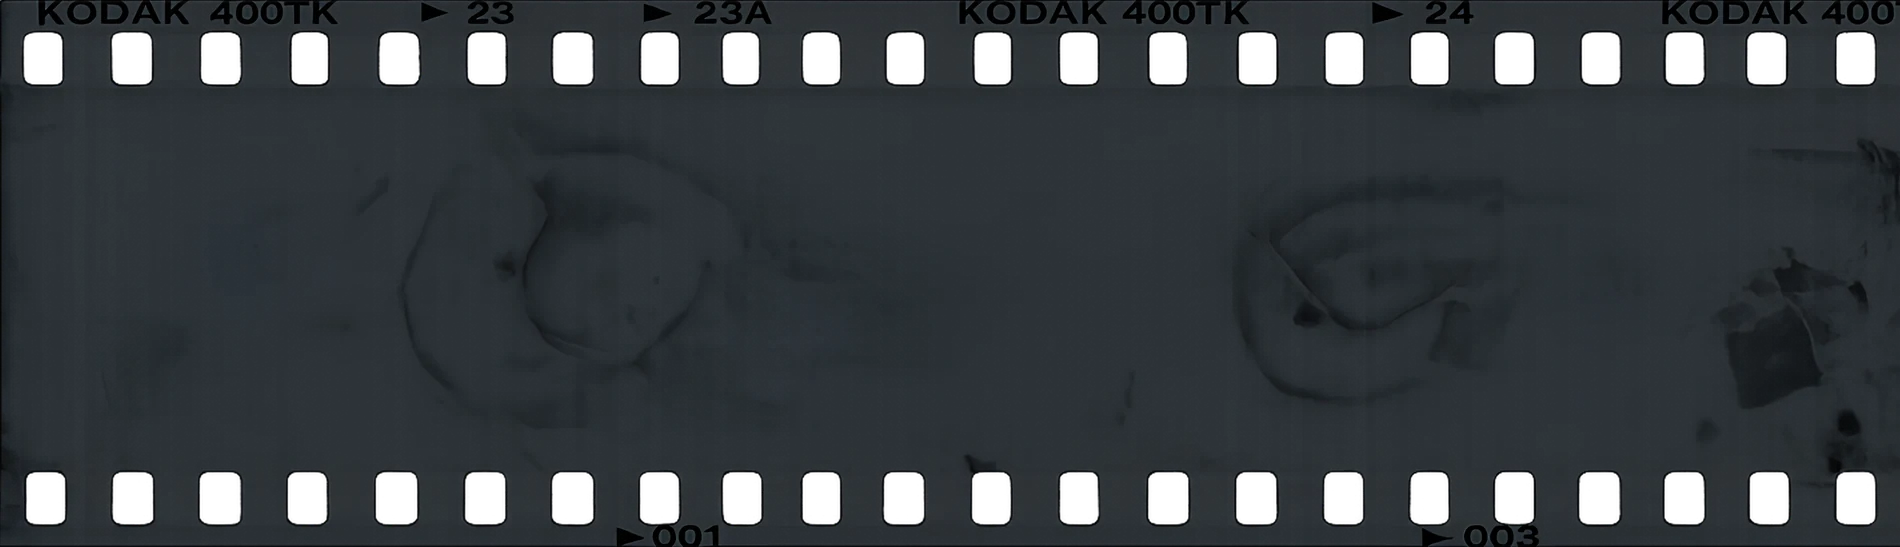
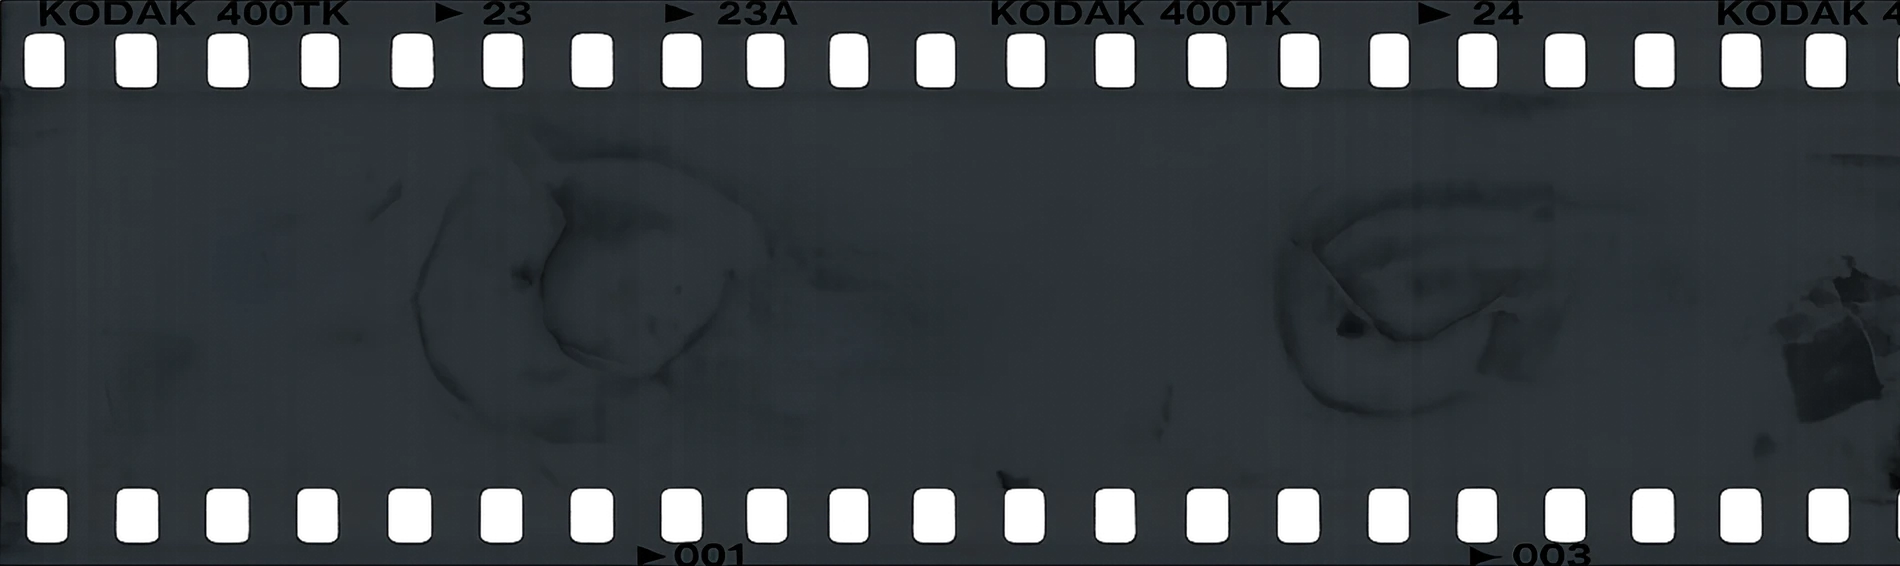
Re-cut the film tile on a whole pitch; pin and invert the language pill
The film "loop isn't perfect" was the tile, not the tween. Measured on
both perforation rows: holes sit 127.9px apart inside the tile but only
69.5px across the seam, so every repeat crowded two sprockets together
— a rhythm break once per period. The tween was always exact (pitch ==
group width to the pixel, 34px/s, no jumps).

resources/recut_film.py re-cuts from the right only, keeping x0 = 0 so
the baked frame windows stay aligned with the DOM frames. It SEARCHES
for the width rather than deriving it: my hand arithmetic assumed the
last gaps matched the mean, and they are 95.5px, so the computed width
still left the seam 30% tight. 5697 -> 5512px, seam now within 9.7% of
the tile's own mean gap, which is inside the art's natural jitter
(119-140px). Frame-slot constant retuned 0.8679 -> 0.839732.

Phone and WhatsApp are now different numbers: 052-874-5090 displayed
for the phone across all three pages, +972594097725 for WhatsApp in the
chat widget. Anything reusing phoneLabel for the WhatsApp row is now a
bug, so the widget has its own whatsappLabel.

The language pill is fixed rather than absolute, so it rides down the
page with the burger instead of scrolling away with the masthead, and
it takes the same .on-dark inversion. Sampled separately from the
burger: they sit at opposite corners and are regularly over different
sections at once — verified at 30% scroll, where the pill is over ink
and the burger is not.

diff --git a/prototype/style.css b/prototype/style.css
@@ -285,14 +285,37 @@ html[lang="en"] .ls-opt[data-l="en"] { color: var(--cream); }
 
 /* masthead copy is pinned to the corner opposite the burger. this one is
    physically left in both directions — the burger is physically right, so
-   an inset-inline-start here would stack the two on top of each other in RTL */
+   an inset-inline-start here would stack the two on top of each other in RTL.
+
+   FIXED, not absolute, so it rides down the page with the burger instead of
+   scrolling away with the masthead. `top` centres it on the burger's own
+   centre line (that button is 44px tall at top: 1.1rem), so the two corners
+   stay level at every width. */
 .masthead .lang-switch {
-  position: absolute;
+  position: fixed;
   left: var(--pad);
   right: auto;
-  top: 50%;
+  top: calc(1.1rem + 22px);
   transform: translateY(-50%);
+  z-index: 940;
 }
+/* The overlay carries its own copy in its footer — without this you get two
+   pills on screen, since the fixed one sits above the overlay. */
+body.nav-open .masthead .lang-switch {
+  opacity: 0;
+  pointer-events: none;
+}
+
+/* Same treatment the burger gets: JS samples whatever is actually under it
+   and inverts the whole pill over ink, so it never dissolves into a dark
+   section. Sampled SEPARATELY from the burger — they sit at opposite
+   corners and are regularly over different sections at the same time. */
+.lang-switch.on-dark { border-color: var(--cream); background: transparent; }
+.lang-switch.on-dark .ls-knob { background: var(--cream); }
+.lang-switch.on-dark .ls-opt { color: var(--cream); }
+html[lang="ar"] .lang-switch.on-dark .ls-opt[data-l="ar"],
+html[lang="en"] .lang-switch.on-dark .ls-opt[data-l="en"] { color: var(--ink); }
+.lang-switch.on-dark:hover { background: rgba(217, 217, 206, 0.12); }
 
 /* overlay copy sits on ink, so the whole pill inverts */
 .nav-overlay .lang-switch { border-color: var(--cream); flex: 0 0 auto; }
@@ -401,12 +424,16 @@ html[lang="en"] .nav-overlay .ls-opt[data-l="en"] { color: var(--ink); }
   height: 100%;
 }
 /* each media frame sits on the film's central window band. the slot width is
-   1/4 of the film tile's own aspect (5697/1641 = 3.4717), so one group spans
-   exactly one tile and the scan is displayed with no horizontal stretch */
+   1/4 of the film tile's own aspect (5512/1641 = 3.3589), so one group spans
+   exactly one tile and the scan is displayed with no horizontal stretch.
+   ⚠ Retune this constant to tileAspect / 4 whenever the tile is re-cropped —
+   resources/recut_film.py prints the value. It was 0.8679 for the original
+   5697px tile, whose seam crowded two sprocket holes together on every
+   repeat; the re-cut lands the seam inside the art's own gap jitter. */
 .film-frame {
   position: relative;
   flex: 0 0 auto;
-  width: calc(var(--fh) * 0.8679 - var(--fgap) * 2);
+  width: calc(var(--fh) * 0.839732 - var(--fgap) * 2);
   height: 62%;
   margin-inline: var(--fgap);
   margin-top: calc(var(--fh) * 0.021);   /* nudge onto the window band's center */

diff --git a/prototype/main.js b/prototype/main.js
@@ -860,17 +860,26 @@ const DARK_UNDER = [
    and a full hit test, and `closest()` then walks an 8-selector list for each
    element it returns. Correct, but not something to run 60 times a second on
    a phone — see queueMenuSync below, which spaces it out. */
-function syncMenuBtn() {
-  if (!menuBtn || document.body.classList.contains("nav-open")) return;
-  const r = menuBtn.getBoundingClientRect();
+/** Is the point at this element's centre sitting over a dark section? */
+function overDark(el) {
+  const r = el.getBoundingClientRect();
   const stack = document.elementsFromPoint(r.left + r.width / 2, r.top + r.height / 2);
-  let dark = false;
-  for (const el of stack) {
-    if (el === menuBtn || menuBtn.contains(el)) continue;
-    if (el === document.body || el === document.documentElement) break;
-    if (el.closest(DARK_UNDER)) { dark = true; break; }
+  for (const node of stack) {
+    if (node === el || el.contains(node)) continue;
+    if (node === document.body || node === document.documentElement) break;
+    if (node.closest(DARK_UNDER)) return true;
   }
-  menuBtn.classList.toggle("on-dark", dark);
+  return false;
+}
+
+function syncMenuBtn() {
+  if (document.body.classList.contains("nav-open")) return;
+  /* The burger and the language pill are pinned to OPPOSITE corners, so they
+     are routinely over different sections at once — each is sampled on its
+     own rather than sharing one answer. */
+  if (menuBtn) menuBtn.classList.toggle("on-dark", overDark(menuBtn));
+  const langPill = document.querySelector(".masthead .lang-switch");
+  if (langPill) langPill.classList.toggle("on-dark", overDark(langPill));
 }
 
 /* Every frame was overkill: the burger inverting ~100ms after a dark band

diff --git a/prototype/chat/aliph-chat.js b/prototype/chat/aliph-chat.js
@@ -23,12 +23,17 @@
     health: null,            // e.g. "https://chat.aliphcreative.com/api/health"
     healthTimeoutMs: 4000,
 
-    /* ⚠ Confirm these against the studio before launch — plan §10.3.
-       They currently mirror the site's contact footer. */
+    /* Confirmed by the studio 2026-08-06. ⚠ The phone and the WhatsApp are
+       DIFFERENT numbers — they were the same until now, so anything that
+       reuses `phoneLabel` for the WhatsApp row is a bug.
+       The label is the local form the studio actually gives out; the `tel:`
+       and `wa.me` targets stay E.164, which is the only form both reliably
+       dial from abroad. */
     email: "info@aliphcreative.com",
     phone: "+972528745090",
-    phoneLabel: "+972 52 8745 090",
-    whatsapp: "972528745090",
+    phoneLabel: "052-874-5090",
+    whatsapp: "972594097725",
+    whatsappLabel: "059-409-7725",
   };
 
   const T = {
@@ -176,7 +181,7 @@
     const rows = [
       { k: t("kMail"), v: CONFIG.email, href: "mailto:" + CONFIG.email },
       { k: t("kPhone"), v: CONFIG.phoneLabel, href: "tel:" + CONFIG.phone },
-      { k: t("kWhats"), v: CONFIG.phoneLabel, href: "https://wa.me/" + CONFIG.whatsapp },
+      { k: t("kWhats"), v: CONFIG.whatsappLabel, href: "https://wa.me/" + CONFIG.whatsapp },
     ];
     bodyEl.innerHTML = `
       <span class="ac-down-mark">${t("downMark")}</span>

diff --git a/prototype/about.html b/prototype/about.html
@@ -158,8 +158,8 @@
         <span class="contact-label" data-i18n="cLabelPhone">هاتف / واتساب</span>
         <a class="contact-value" href="tel:+972528745090" lang="en" dir="ltr">
           <span class="cv-swap">
-            <span class="cv-real">+972 52 8745 090</span>
-            <span class="cv-ghost" aria-hidden="true">+972 52 8745 090</span>
+            <span class="cv-real">052-874-5090</span>
+            <span class="cv-ghost" aria-hidden="true">052-874-5090</span>
           </span>
         </a>
       </div>

diff --git a/prototype/index.html b/prototype/index.html
@@ -336,8 +336,8 @@
         <span class="contact-label" data-i18n="cLabelPhone">هاتف / واتساب</span>
         <a class="contact-value" href="tel:+972528745090" lang="en" dir="ltr">
           <span class="cv-swap">
-            <span class="cv-real">+972 52 8745 090</span>
-            <span class="cv-ghost" aria-hidden="true">+972 52 8745 090</span>
+            <span class="cv-real">052-874-5090</span>
+            <span class="cv-ghost" aria-hidden="true">052-874-5090</span>
           </span>
         </a>
       </div>

diff --git a/prototype/library.html b/prototype/library.html
@@ -168,8 +168,8 @@
         <span class="contact-label" data-i18n="cLabelPhone">هاتف / واتساب</span>
         <a class="contact-value" href="tel:+972528745090" lang="en" dir="ltr">
           <span class="cv-swap">
-            <span class="cv-real">+972 52 8745 090</span>
-            <span class="cv-ghost" aria-hidden="true">+972 52 8745 090</span>
+            <span class="cv-real">052-874-5090</span>
+            <span class="cv-ghost" aria-hidden="true">052-874-5090</span>
           </span>
         </a>
       </div>

diff --git a/resources/recut_film.py b/resources/recut_film.py
@@ -1,0 +1,140 @@
+"""Re-cut the film tile so it repeats on a whole perforation pitch.
+
+THE BUG THIS FIXES
+------------------
+`film.webp` was cropped to "22 perforation pitches" by eye. Measured, the
+holes inside the tile sit 127.9px apart on average (min 119, max 140 — the
+art is generated, not a scan, so it jitters), but across the tile seam the
+gap was only 69.5px. Every repeat crowded two sprocket holes together: a
+visible rhythm break once per period, which is what "the loop isn't
+perfect" looks like.
+
+THE CUT
+-------
+Crop from the RIGHT only, keeping x0 = 0. That matters: the film's own
+frame windows are baked into the art and the DOM frames are laid out from
+the group's left edge, so trimming the left would slide every frame off its
+window by the amount trimmed. Trimming the right leaves that alignment
+untouched.
+
+The width is SEARCHED, not chosen by hand. I tried computing it from the
+last two hole centres and got it wrong — the tile's final gaps are short
+(95.5px against a 128px mean), so the arithmetic landed on a width whose
+seam was still 30% tight. The search scores every candidate width on both
+perforation rows at once and rejects any that would slice a hole in half.
+
+⚠ This is a CROP of the user's own pixels. No resampling, no sharpening, no
+substitution — the same rule the rest of this asset was built under. Only
+the `-m` phone variants resample, exactly as they already did.
+
+⚠ Changing the tile width changes its aspect, so the frame-slot constant in
+style.css MUST be retuned to tileAspect / 4. This script prints the value.
+"""
+import os
+from PIL import Image
+
+HERE = os.path.dirname(os.path.abspath(__file__))
+IMG = os.path.join(HERE, "..", "prototype", "assets", "img")
+
+MOBILE_W = 1900       # unchanged — a DPR-3 phone draws the tile at ~1914px
+MIN_W = 4600          # don't shrink the tile more than ~20% chasing a seam
+
+
+def runs_of(im, row):
+    """Perforation runs (start, end) along one row, by luminance."""
+    px = im.convert("RGB").load()
+    W = im.size[0]
+    lum = [sum(px[x, row][:3]) // 3 for x in range(W)]
+    th = (max(lum) + min(lum)) // 2
+    out, s = [], None
+    for x, v in enumerate(lum):
+        if v > th and s is None:
+            s = x
+        elif v <= th and s is not None:
+            out.append((s, x)); s = None
+    if s is not None:
+        out.append((s, W))
+    return [r for r in out if r[1] - r[0] > 8]
+
+
+def holes(im, row):
+    return [(a + b) / 2 for a, b in runs_of(im, row)]
+
+
+def best_width(im):
+    """The crop width whose seam gap best matches the tile's own rhythm.
+
+    Scored across BOTH perforation rows — they are ~2px out of phase, and a
+    width that suits one can clip a hole on the other."""
+    W, H = im.size
+    rows = [runs_of(im, int(H * 0.11)), runs_of(im, int(H * 0.89))]
+    stats = []
+    for rs in rows:
+        c = [(a + b) / 2 for a, b in rs]
+        gaps = [c[i + 1] - c[i] for i in range(len(c) - 1)]
+        stats.append((rs, c, sum(gaps) / len(gaps)))
+
+    best = None
+    for w in range(MIN_W, W + 1):
+        score = 0
+        for rs, c, mean in stats:
+            # a candidate edge may not fall inside a hole
+            if any(a < w < b for a, b in rs):
+                score = None; break
+            inside = [x for x in c if x < w]
+            if len(inside) < 8:
+                score = None; break
+            seam = (w - inside[-1]) + c[0]
+            score = max(score, abs(seam - mean) / mean)
+        if score is None:
+            continue
+        # prefer the truest seam; break ties toward the widest tile
+        key = (round(score, 4), -w)
+        if best is None or key < best[0]:
+            best = (key, w, score)
+    return best[1], best[2]
+
+
+def report(im, label):
+    W, H = im.size
+    for name, row in (("top", int(H * 0.11)), ("bottom", int(H * 0.89))):
+        c = holes(im, row)
+        gaps = [c[i + 1] - c[i] for i in range(len(c) - 1)]
+        wrap = (W - c[-1]) + c[0]
+        print("  %-7s %-6s holes=%2d  mean gap=%.1f  seam gap=%.1f  (%+.1f%%)"
+              % (label, name, len(c), sum(gaps) / len(gaps), wrap,
+                 100 * (wrap - sum(gaps) / len(gaps)) / (sum(gaps) / len(gaps))))
+
+
+def main():
+    master = Image.open(os.path.join(IMG, "film.webp"))
+    print("before:"); report(master, "film")
+    cut_w, dev = best_width(master)
+    print("\nsearched width: %d px  (seam within %.1f%% of the tile's mean gap)\n"
+          % (cut_w, dev * 100))
+
+    for base in ("film", "film-shadow"):
+        src = os.path.join(IMG, base + ".webp")
+        im = Image.open(src)
+        if im.size[0] == cut_w:
+            print("%s already re-cut, skipping" % base)
+            continue
+
+        cut = im.crop((0, 0, cut_w, im.size[1]))
+        cut.save(src, "WEBP", quality=92, lossless=False)
+        if base == "film":
+            print("after:"); report(Image.open(src), base)
+
+        h = round(cut.size[1] * MOBILE_W / cut.size[0])
+        cut.resize((MOBILE_W, h), Image.LANCZOS).save(
+            os.path.join(IMG, base + "-m.webp"), "WEBP", quality=90)
+        print("%-12s -> %s  and  %s-m.webp -> %s"
+              % (base, cut.size, base, (MOBILE_W, h)))
+
+    aspect = cut_w / Image.open(os.path.join(IMG, "film.webp")).size[1]
+    print("\nnew tile aspect  %.6f" % aspect)
+    print("style.css frame-slot constant (aspect / 4):  %.6f" % (aspect / 4))
+
+
+if __name__ == "__main__":
+    main()
